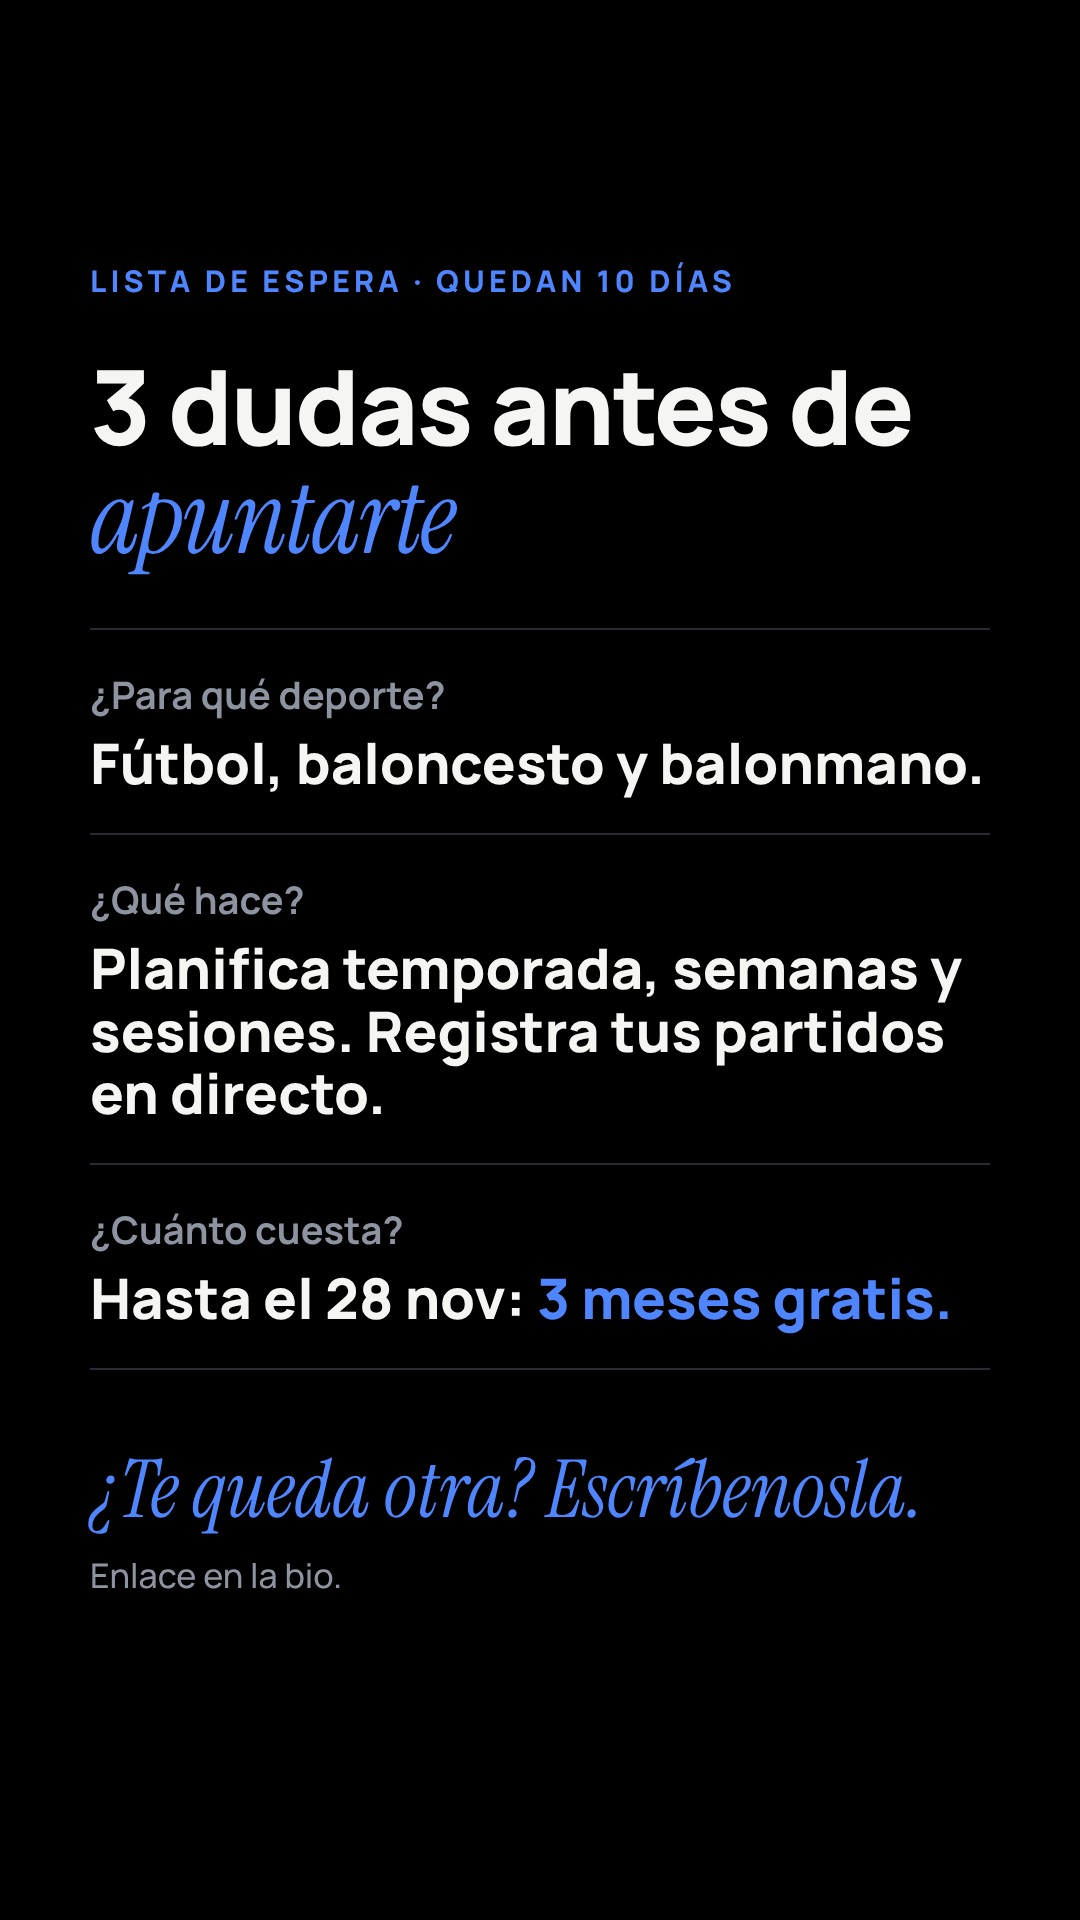
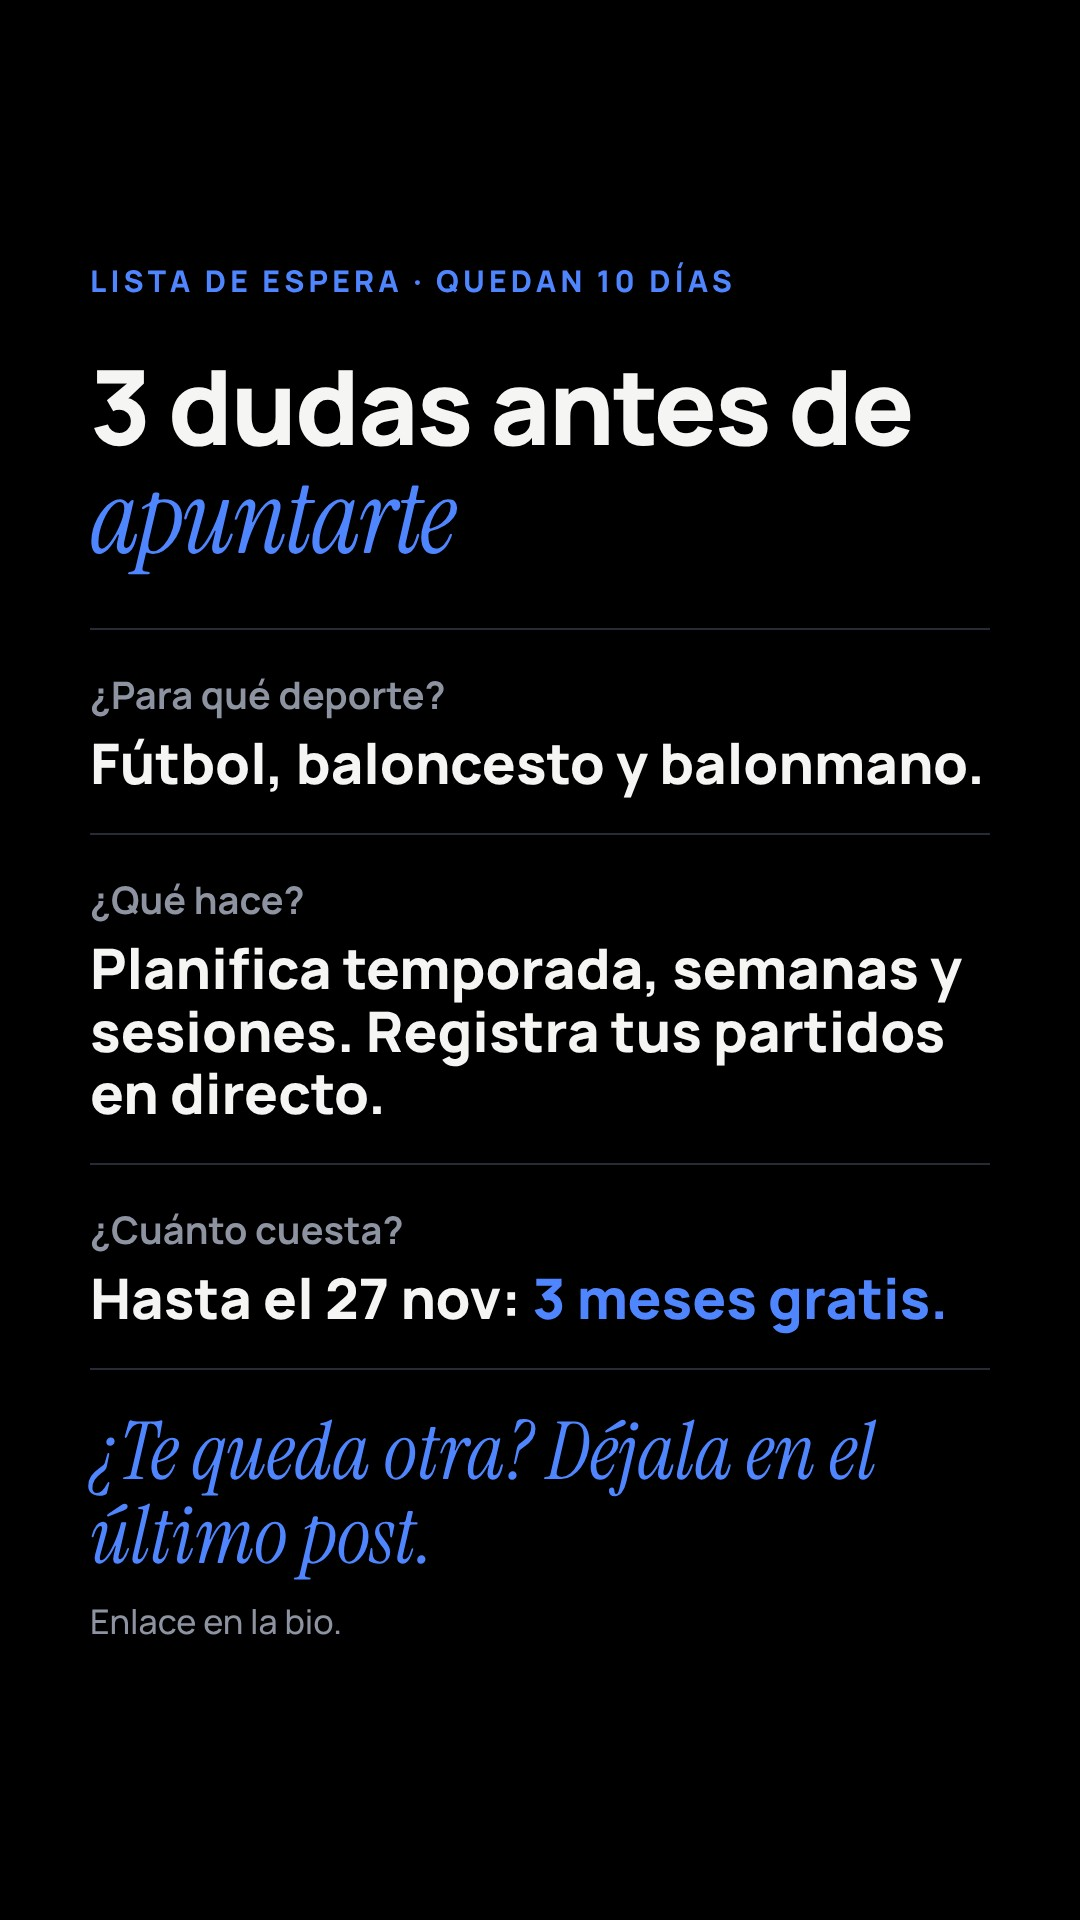
Clara 16/11 13:40: c10 pide comentar (deporte, categoría, días; hasta el 27 nov), c10s pasa a encuesta de deporte, c10s3 con 27 nov
Claude-Session: https://claude.ai/code/session_01WCsjnNNjn8dHE1tyyDvm7p

Changed region(s): [[0.0611, 0.7188, 0.8556, 0.875], [0.3361, 0.6562, 0.8861, 0.6875]]

diff --git a/tools/stories1117/a.html b/tools/stories1117/a.html
@@ -1,22 +1,21 @@
 <!doctype html><html lang="es"><head><meta charset="utf-8"><link rel="stylesheet" href="base.css"><style>
-.card{background:#fff;border-radius:34px;padding:44px 54px 30px;margin-top:70px;box-shadow:0 2px 0 #e2e0d8}
-.eg{font-weight:800;font-size:26px;letter-spacing:.14em;text-transform:uppercase;color:#8d93a1;margin-bottom:10px}
-.row{display:flex;justify-content:space-between;align-items:baseline;padding:30px 0;border-top:2px solid #e6e4dc}
-.row:first-of-type{border-top:none}
-.row .l{font-weight:700;font-size:40px;color:#0d0f14}
-.row .v{font-family:S;font-style:italic;font-size:84px;color:#2f6bff;line-height:1}
+.opt{display:flex;align-items:center;justify-content:space-between;background:#fff;border-radius:30px;padding:34px 46px;margin-top:22px;box-shadow:0 2px 0 #e2e0d8}
+.opt span{font-weight:800;font-size:66px;letter-spacing:-.02em}
+.opt i{width:58px;height:58px;border-radius:50%;border:5px solid #c9c6bc;flex:none}
+.more{margin-top:46px;font-weight:700;font-size:40px;line-height:1.3;color:#3a3e48}
+.more b{color:#0d0f14;font-weight:800}
 </style></head><body>
 <div class="s paper"><div class="in">
-<div class="k">Tu equipo en 3 datos</div>
-<h1 style="font-size:92px;margin-top:50px">¿Para qué equipo hacemos el próximo plan semanal?</h1>
-<div class="card">
-<div class="eg">Ejemplo</div>
-<div class="row"><span class="l">Deporte</span><span class="v">Balonmano</span></div>
-<div class="row"><span class="l">Categoría</span><span class="v">Infantil</span></div>
-<div class="row"><span class="l">Días de entreno</span><span class="v">L · X · V</span></div>
+<div class="k">Encuesta · tu equipo</div>
+<h1 style="font-size:120px;margin-top:46px">¿Qué deporte entrenas?</h1>
+<div style="margin-top:50px">
+<div class="opt"><span>Fútbol</span></div>
+<div class="opt"><span>Baloncesto</span></div>
+<div class="opt"><span>Balonmano</span></div>
 </div>
+<p class="more">Añade <b>categoría</b> y <b>días de entreno</b> y te preparamos la semana.</p>
 <div style="margin-top:auto">
-<div class="sr" style="font-size:104px;line-height:1">Respóndenos con los tuyos.</div>
-<div class="sm" style="color:#4a4f5c;margin-top:26px;font-weight:700">Haremos el de la combinación más repetida.</div>
+<div class="sr" style="font-size:84px;line-height:1">Coméntalo en el post de hoy.</div>
+<div class="sm" style="color:#4a4f5c;margin-top:24px;font-weight:700">Lo que más se repita decide el próximo plan semanal.</div>
 </div>
 </div></div></body></html>

diff --git a/tools/stories1117/c.html b/tools/stories1117/c.html
@@ -9,10 +9,10 @@
 <div style="margin-top:56px">
 <div class="q"><div class="p">¿Para qué deporte?</div><div class="a">Fútbol, baloncesto y balonmano.</div></div>
 <div class="q"><div class="p">¿Qué hace?</div><div class="a">Planifica temporada, semanas y sesiones. Registra tus partidos en directo.</div></div>
-<div class="q" style="border-bottom:2px solid #262b36"><div class="p">¿Cuánto cuesta?</div><div class="a">Hasta el 28 nov: <span style="color:#4f86ff">3 meses gratis.</span></div></div>
+<div class="q" style="border-bottom:2px solid #262b36"><div class="p">¿Cuánto cuesta?</div><div class="a">Hasta el 27 nov: <span style="color:#4f86ff">3 meses gratis.</span></div></div>
 </div>
-<div style="margin-top:auto">
-<div class="sr" style="font-size:80px;line-height:1.05">¿Te queda otra? Escríbenosla.</div>
+<div style="margin-top:auto;padding-top:40px">
+<div class="sr" style="font-size:80px;line-height:1.05">¿Te queda otra? Déjala en el último post.</div>
 <div class="sm" style="color:#8d93a1;margin-top:20px">Enlace en la bio.</div>
 </div>
 </div></div></body></html>

diff --git a/tools/carrusel10/index.html b/tools/carrusel10/index.html
@@ -213,8 +213,8 @@ p.b{font-weight:500;font-size:34px;line-height:1.38}
     </div>
     <p style="font-weight:700;font-size:34px;margin-top:40px;color:#c9ccd4">Toda la semana, un objetivo: <span class="sr" style="font-size:42px">fijar antes de pasar.</span></p>
     <div class="cta" style="margin-top:44px">
-      <p style="font-weight:700;font-size:40px;line-height:1.2">¿Otra categoría u otros días?</p>
-      <p class="sr" style="font-size:84px;line-height:1.05;margin-top:12px">Respóndeme y<br>te la preparo.</p>
+      <p style="font-weight:700;font-size:40px;line-height:1.2">¿Otro deporte, categoría o días?</p>
+      <p class="sr" style="font-size:84px;line-height:1.05;margin-top:12px">Coméntalos y<br>te la preparo.</p>
     </div>
     <p class="note" style="font-size:24px;opacity:.75">Propuesta orientativa para infantil (12–13 años): ajusta los minutos a tu pista y a tu grupo. En la app de ProTeam, la semana, la carga y el partido quedan en un mismo sitio.</p>
   </div>

diff --git a/agencia/carruseles/2026-11-16-c10-semana-balonmano-infantil.md b/agencia/carruseles/2026-11-16-c10-semana-balonmano-infantil.md
@@ -28,7 +28,7 @@ Domingo, 22:40: el lunes entrenas y aún no sabes qué vas a hacer. En la élite
 5. Miércoles: el día fuerte, 90′, carga alta, el objetivo con oposición.
 6. Viernes: 70′, carga baja, situaciones especiales y una consigna.
 7. Sábado: la consigna y las tres cosas que apunta el segundo; el lunes eso decide la semana siguiente.
-8. La semana en una imagen + la acción: «¿Otra categoría u otros días? Respóndeme y te la preparo.»
+8. La semana en una imagen + la acción: «¿Otro deporte, categoría o días? Coméntalos y te la preparo.»
 Ocho diapositivas porque cada una aporta algo que no está en otra; la 4–6 son las que se guardan.
 
 ## 7. Texto exacto
@@ -39,7 +39,7 @@ Ocho diapositivas porque cada una aporta algo que no está en otra; la 4–6 son
 5. SESIÓN 2 · EL DÍA FUERTE / Miércoles / 90 min · Carga alta · RPE 7 / 12′ Juego de los 10 pases · 20′ 3×2: encontrar al libre fijando · 15′ Defensa 1×1: pies antes que manos · 15′ Contraataque 3×2 que acaba en 2×1 · 20′ 6×6 con defensa individual o 3:3 · 8′ Qué ha salido y qué no / El objetivo, con oposición y a ritmo de partido.
 6. SESIÓN 3 · ANTES DEL PARTIDO / Viernes / 70 min · Carga baja · RPE 4 / 12′ Juegos de reacción con balón · 18′ 2×1 en oleadas cortas, sin prisa · 15′ 7 metros (2 cada uno) y saque de centro · 18′ 6×6: dos partes de 7′, pausa larga · 7′ Una consigna para el sábado / Llegar fresco: menos minutos y nada nuevo.
 7. SÁBADO · PARTIDO / Una consigna: *fija antes de pasar.* / Y tu segundo apunta tres cosas: 1 2×1 que acaban en lanzamiento claro · 2 Balones perdidos por pasar sin fijar · 3 Minutos de cada jugador / El lunes, eso decide el objetivo de la semana siguiente. / Foto: Steffen Prößdorf (CC BY-SA 4.0)
-8. TU SEMANA · GUÁRDALA / Lun 90′ · media · Mié 90′ · alta · Vie 70′ · baja · Sáb partido / Toda la semana, un objetivo: *fijar antes de pasar.* / ¿Otra categoría u otros días? *Respóndeme y te la preparo.* / Propuesta orientativa para infantil (12–13 años): ajusta los minutos a tu pista y a tu grupo. En la app de ProTeam, la semana, la carga y el partido quedan en un mismo sitio.
+8. TU SEMANA · GUÁRDALA / Lun 90′ · media · Mié 90′ · alta · Vie 70′ · baja · Sáb partido / Toda la semana, un objetivo: *fijar antes de pasar.* / ¿Otro deporte, categoría o días? *Coméntalos y te la preparo.* / Propuesta orientativa para infantil (12–13 años): ajusta los minutos a tu pista y a tu grupo. En la app de ProTeam, la semana, la carga y el partido quedan en un mismo sitio.
 
 ## 8. Propuesta visual por diapositiva
 1 foto a sangre (Mem) con velo inferior · 2 media página de texto + foto a la derecha (Dujshebaev) · 3 papel, pista dibujada (6 m, 9 m, jugadores y flechas) · 4 papel, día gigante, chips, barra de minutos, tabla · 5 tinta, misma plantilla, chip de carga en azul · 6 papel, barra al 78 % (70′) · 7 foto de pabellón arriba, lista abajo · 8 tinta, barras de carga de la semana y recuadro de acción.
@@ -51,8 +51,12 @@ Tinta `#0d0f14` / papel `#f2f1ec`, azul `#2f6bff` reservado al objetivo y a la a
 En `queue.json` (id c10). Segunda línea: «Guárdalo y mándaselo a tu segundo…». Créditos de las fotos. 3 hashtags.
 
 ## 11. CTA
-«¿Otra categoría u otros días? Respóndeme y te la preparo.» (diapositiva 8 y copy). La lista de espera solo en el copy.
+«¿Otro deporte, categoría o días? Coméntalos y te la preparo.» (diapositiva 8 y copy). La lista de espera solo en el copy.
 
 ## 12. Control de calidad
 1. ¿Le interesa a un entrenador? Sí, al de balonmano base: es su semana. 2. ¿Concreto? Minutos, tareas, carga y qué apuntar. 3. ¿Idea que recordar? «Fijar antes de pasar» toda la semana y medirlo el sábado. 4. ¿Distinta de lo publicado? Primer carrusel-herramienta y primero de balonmano. 5. ¿Prueba de la otra cuenta? La pasa por el hilo objetivo→sábado→lunes y por el papel del segundo; un plan semanal suelto no la pasaría. 6. ¿Aporta valor? Se puede usar mañana. 7. ¿Formato? Carrusel: se guarda y se consulta por días. 8. ¿Interés tras el inicio? La 2 da la escena y la 3 el objetivo antes de las sesiones. 9. ¿Realista? Todo está hecho con lo que hay; sin capturas de la app. 10. ¿Representa a ProTeam? Planificar, carga y partido son lo que hace la app; aparece solo en el pie.
 Auditoría visual: `agencia/criticas/2026-11-16-c10-final.md` (83/100). Debilidad propia: las diapositivas de día son listas; y la promesa de la 8 exige contestar los mensajes.
+
+
+## Cambio del 16/11 · 13:40 (encargo de Laura, regla de comentar)
+Cierre de la diapositiva 8 y descripción: se pide **comentar** (no mensaje privado) y se abre a los tres deportes: «¿Otro deporte, categoría o días? Coméntalos y te la preparo.» Descripción: «Comenta tu deporte, tu categoría y tus días y te preparo la semana» y «Hasta el 27 de noviembre, 3 meses gratis». Nota de Andrés: 83 (sin cambios).

diff --git a/agencia/criticas/2026-11-17-stories.md b/agencia/criticas/2026-11-17-stories.md
@@ -23,3 +23,20 @@ Puerta 1: 74 (la respuesta de «¿Qué hace?» enumeraba cinco funciones: ilegib
 Hook 11/15 · Estrategia 13/15 · Narrativa 11/15 · Valor 11/15 · Originalidad 10/15 · Credibilidad y claridad 9/10 · Visual 8/10 · CTA 3/5 → **76**.
 **Riesgo de salto: alto** — es la más «anuncio» y pasa de 20 palabras.
 Por qué sale: responde la hipótesis de las 0 altas (no se sabe qué es ni para quién) con datos de MARCA.md y sin promesas; la pregunta final tiene uso escrito. Si Biel no quiere oferta en Stories, es la que hay que tocar.
+
+---
+
+## Revisión del lunes 16/11 · 13:40 (Andrés, escala 16/11) — cambios por los encargos de Laura y de Biel
+Motivo: regla nueva (los CTA piden **comentar**, nadie lee los privados), fecha única **hasta el 27 nov** y encargo urgente de Biel «Carruseles y Stories rotando fútbol, baloncesto y balonmano» (punto 3: encuesta «¿Qué deporte entrenas?» esta semana).
+
+### c10s v2 · «¿Qué deporte entrenas?» (13:00) — 78/100, PUBLICABLE
+Cambia de ficha de ejemplo de balonmano a encuesta de tres deportes. La respuesta va a los comentarios del carrusel c10 (11:00), que pide justo eso («¿Otro deporte, categoría o días? Coméntalos y te la preparo»): Story y post empujan la misma acción y el turno de respuestas puede leerla. Opciones sin círculos de marcar para no fingir un sticker que no se puede tocar.
+Hook 13/15 · Estrategia 14/15 · Narrativa 10/15 · Valor 10/15 · Originalidad 10/15 · Credibilidad y claridad 9/10 · Visual 8/10 · CTA 4/5 → **78** (antes 78 con CTA 2/5 por mensaje privado ilegible para el equipo; ahora el CTA es más corto y leíble, pero la Story pierde la ficha rellenada que daba la idea en un vistazo).
+**Riesgo de salto: medio** — papel sin imagen; la pregunta de 4 palabras se lee en 1 s.
+Bloqueantes: ninguno. Lo flojo: pedir comentar en otro sitio es un paso más que un sticker.
+
+### c10s3 v2 · «3 dudas antes de apuntarte» (20:00) — 76/100, PUBLICABLE
+Solo dos cambios: «Hasta el 27 nov» (antes 28: chocaba con «quedan 10 días» y con la fecha única) y la pregunta final pide dejar la duda en el último post en vez de escribir por privado. Notas parciales iguales. **Riesgo de salto: alto** (igual que antes).
+
+### c10 · cierre v2 (carrusel, 17/11 11:00) — 83/100, se mantiene
+Diapositiva 8: «¿Otro deporte, categoría o días? *Coméntalos y te la preparo.*» y descripción con el CTA estándar «Comenta tu deporte, tu categoría y tus días y te preparo la semana» y «hasta el 27 de noviembre». Mirada la lámina final: sin viudas, margen ≥ 90 px. La nota no cambia (el CTA ya tenía 5/5); se gana coherencia con la regla de comentar y con los tres deportes.

diff --git a/agencia/carruseles/2026-11-17-stories.md b/agencia/carruseles/2026-11-17-stories.md
@@ -56,3 +56,22 @@ Contexto del día: Reels u05 (13:30, análisis tras ganar), u06 (17:00, carga si
 Debilidades propias: c10s3 pasa de 20 palabras (formato de preguntas frecuentes; texto grande y aireado). c10s pide tres datos: más esfuerzo que una sola respuesta. Ninguna lleva persona reconocible (no hay foto que aporte a estos tres mensajes; no se usa una por cumplir).
 
 Auditoría: `agencia/criticas/2026-11-17-stories.md`.
+
+---
+
+## Cambios del lunes 16/11 · 13:40 (Clara)
+Por la regla de comentar (nadie lee los privados), la fecha única «hasta el 27 nov» y el encargo urgente de Biel (encuesta «¿Qué deporte entrenas?» esta semana, tres deportes por igual):
+
+### c10s v2 · 13:00 · «¿Qué deporte entrenas?»
+1. **Objetivo:** conocer a la comunidad (reparto por deporte), igual que antes, ahora con un canal que el equipo puede leer.
+2. **Contexto:** a las 11:00 sale c10, cuyo cierre pide comentar deporte, categoría y días. La Story manda ahí la respuesta.
+3. **Número:** 1.
+4. **Secuencia:** pregunta → tres opciones → qué añadir → dónde contestar → qué haremos.
+5. **Texto exacto:** «ENCUESTA · TU EQUIPO» / «¿Qué deporte entrenas?» / Fútbol · Baloncesto · Balonmano / «Añade **categoría** y **días de entreno** y te preparamos la semana.» / «*Coméntalo en el post de hoy.*» / «Lo que más se repita decide el próximo plan semanal.»
+6. **Visual:** papel; tres tarjetas blancas grandes con el deporte en Manrope 800, sin círculos de marcar (no hay sticker que tocar).
+7. **Interacción:** sin sticker (la API no lo publica). **Decidido:** respuesta en comentarios del carrusel de las 11:00 en vez de encuesta tocable o mensaje privado, porque los comentarios los lee el turno de respuestas y los privados no los lee nadie.
+8. **CTA:** comentar deporte (+ categoría y días) en c10.
+9. **Qué buscamos aprender y cómo se leerá (Samuel):** reparto real del público por deporte. Se cuentan a las 24 h los comentarios de c10 por deporte (y categoría si la ponen). **Con la respuesta:** el siguiente «Te lo dejo hecho» será del deporte más repetido y la serie de la semana se reparte con ese dato (Clara y Dani). Menos de 3 comentarios = dato también: la petición desde Story no arrastra al post.
+
+### c10s3 v2 · 20:00
+Texto cambiado: «¿Cuánto cuesta?» → «Hasta el 27 nov: 3 meses gratis.» y cierre «*¿Te queda otra? Déjala en el último post.*» (antes «Escríbenosla», por privado). Lo demás igual.

diff --git a/agencia/HISTORIAL.md b/agencia/HISTORIAL.md
@@ -30,9 +30,9 @@ collage a pantalla completa de entrenadores famosos (u01) · cuadrícula 3×3 (u
 | c08s | 16/11 13:00 | comunidad (respuesta por mensaje) | La pregunta del entrenador: ¿qué te cuesta más apuntar? A asistencia · B cansancio · C último partido · D correcciones. La más votada será carrusel esta semana. 80/100 |
 | c09s | 16/11 17:00 | valor | Pequeños cambios: «¿Qué funcionó en tu último entreno? Apúntalo en 2 minutos» (3 líneas antes de irte del campo). 81/100 |
 | c09s2 | 16/11 20:00 | marca + lista de espera | «¿Cuántas horas entrenas fuera del campo?» + «Planificar. Apuntar. Revisar. También es entrenar.» + quedan 11 días · 3 meses gratis. 77/100 |
-| c10s | 17/11 13:00 | comunidad (respuesta por mensaje) | Tu equipo en 3 datos: ficha de ejemplo (Balonmano · Infantil · L·X·V); el próximo plan semanal será para la combinación más repetida. 78/100, escala 16/11 |
+| c10s | 17/11 13:00 | comunidad (respuesta en comentarios de c10) | v2 16/11: encuesta «¿Qué deporte entrenas?» Fútbol · Baloncesto · Balonmano + categoría y días, se contesta en el post de las 11:00; lo más repetido decide el próximo plan semanal. 78/100, escala 16/11 |
 | c10s2 | 17/11 17:00 | producto (pantalla real) | ¿Quién se quedó sin jugar el sábado? Informe real con SIN MINUTOS 4 resaltado · «Mejor saberlo tú que enterarte por un padre». 83/100, escala 16/11 |
-| c10s3 | 17/11 20:00 | dudas + lista de espera | 3 dudas antes de apuntarte: deportes, qué hace, 3 meses gratis hasta el 28 nov · quedan 10 días · «¿Te queda otra? Escríbenosla». 76/100, escala 16/11 |
+| c10s3 | 17/11 20:00 | dudas + lista de espera | 3 dudas antes de apuntarte: deportes, qué hace, 3 meses gratis hasta el 27 nov · quedan 10 días · «¿Te queda otra? Déjala en el último post» (v2 16/11). 76/100, escala 16/11 |
 
 ## Carruseles (Agente 04)
 | id | fecha | titular (diapo 1) | línea editorial | objetivo | estructura | tema | CTA | enfoque visual |
